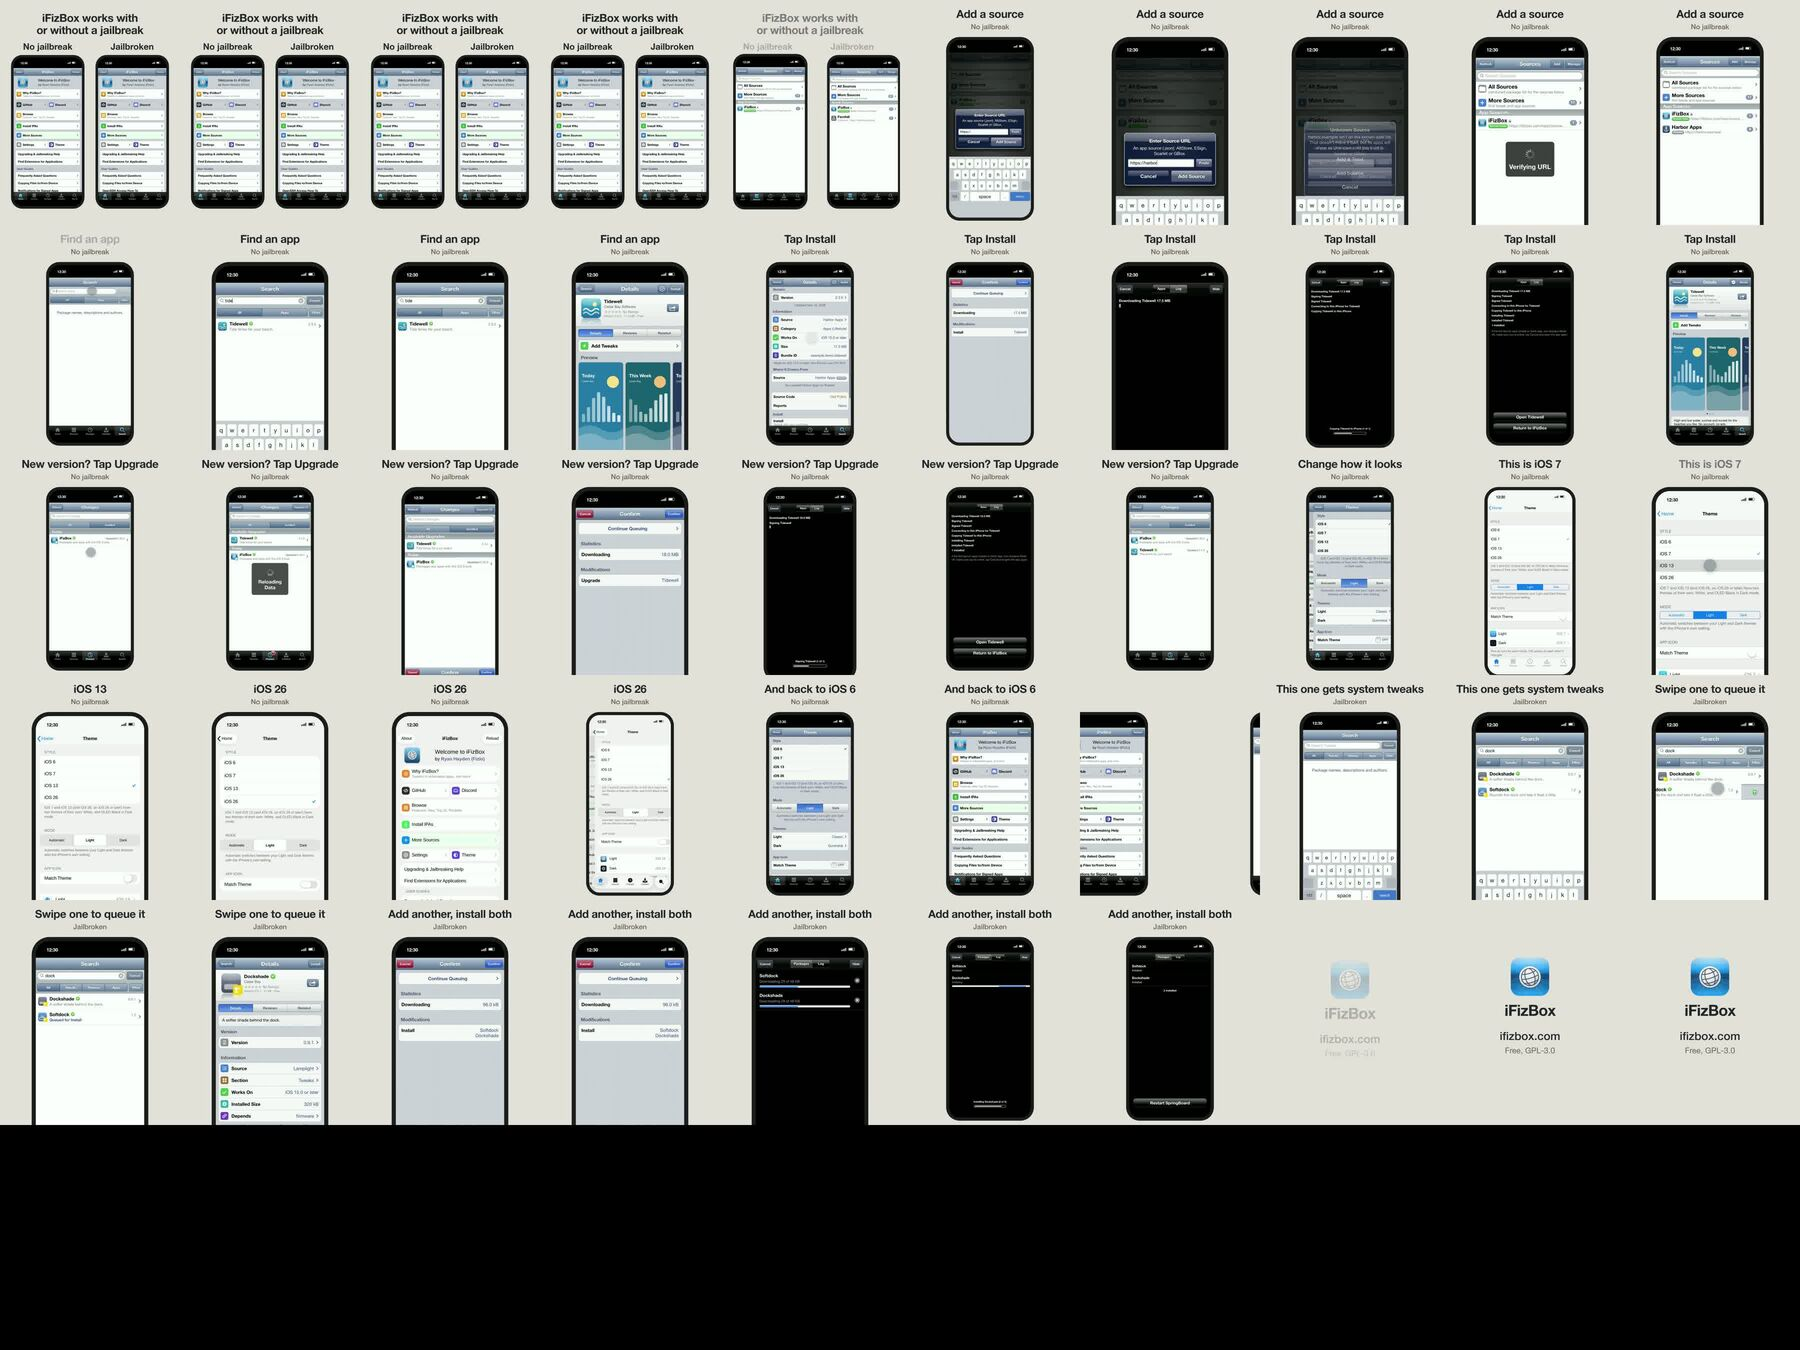
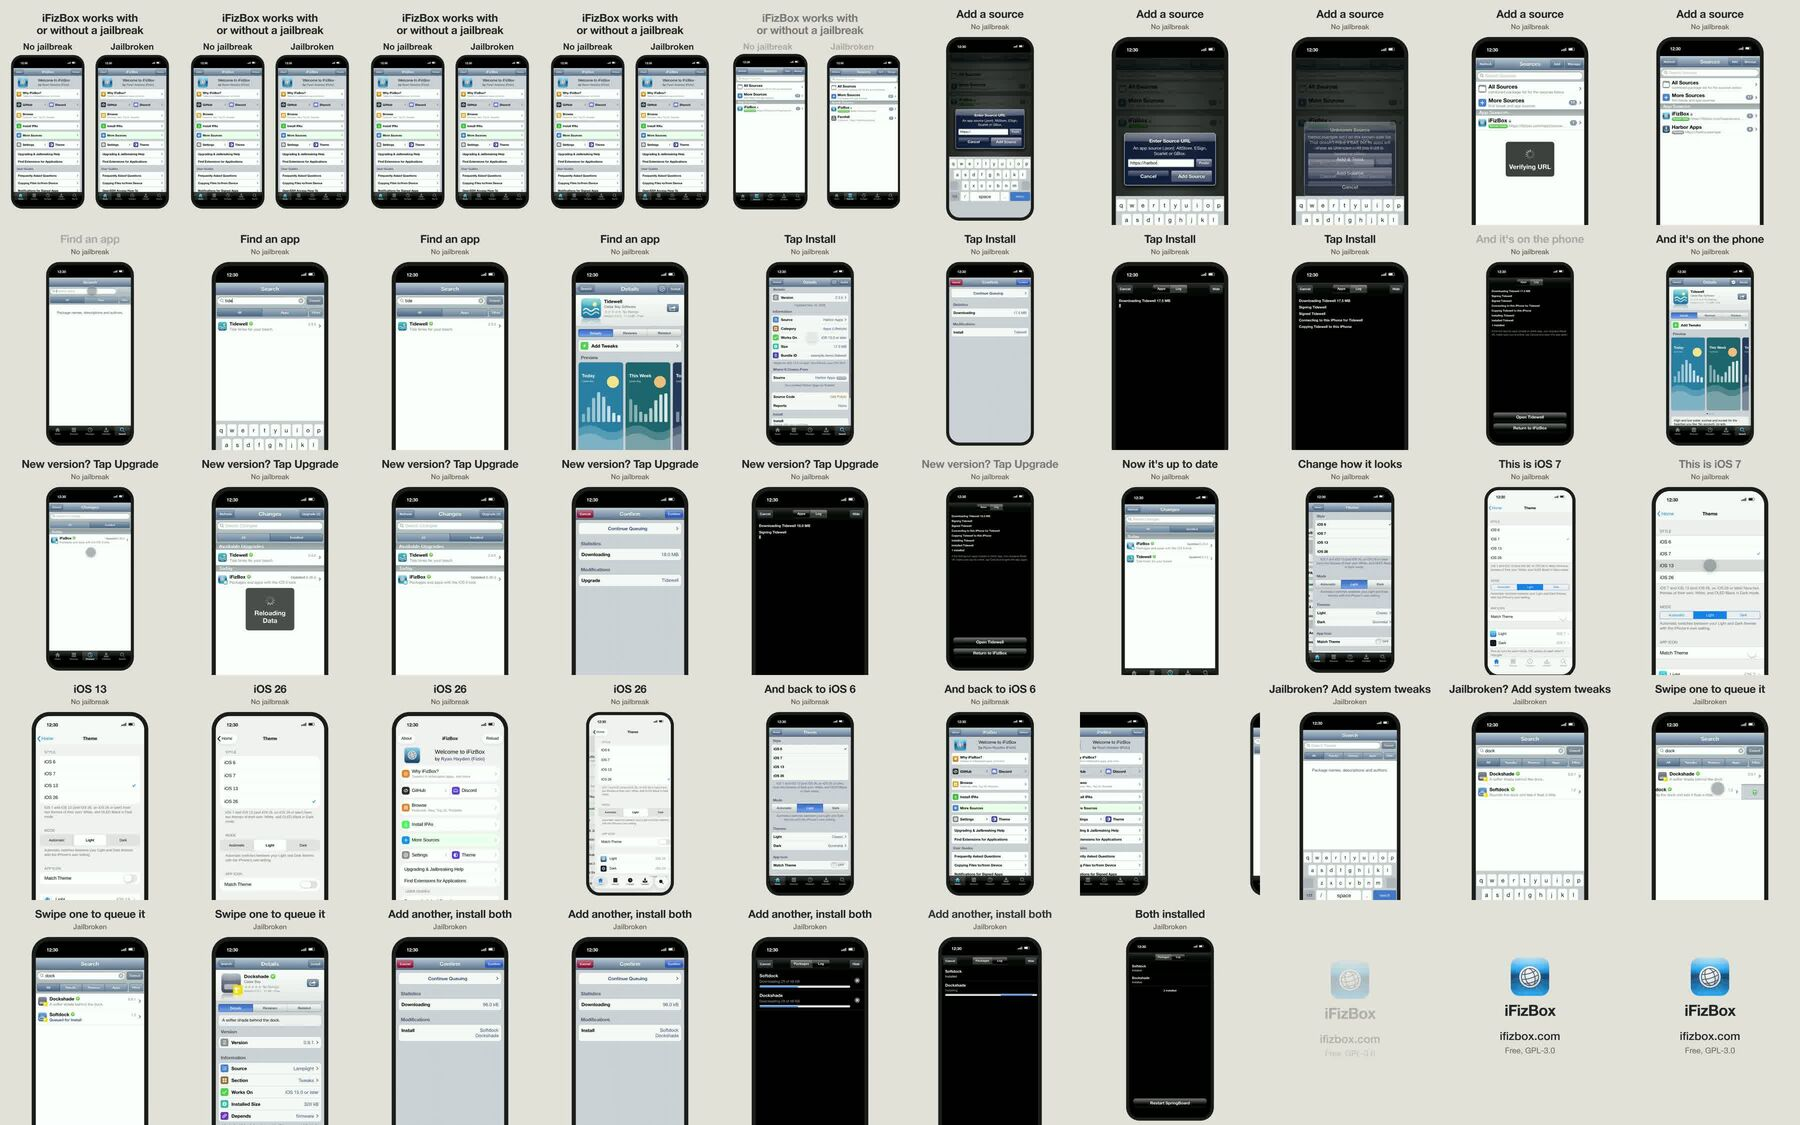
F440b Showcase video: one continuous flow of both builds, cut from the recordings (4:5 and 9:16)
review: fixed stale captions, close-ups, length, a wrong comment

diff --git a/marketing/video/video.html b/marketing/video/video.html
@@ -9,7 +9,8 @@
     window.render(t)      draws time t (a promise: the recordings' frames are decoded)
     window.ready          a promise: the marks and images are loaded
 
-  The flow is never cut: the recordings run from mark to mark, some stretches faster (MAP). The phone is a plain
+  A recording is never cut once it runs: it goes from mark to mark, some stretches faster (MAP). The jailbreak one
+  opens beside the other, then comes back from its Search on. The phone is a plain
   rounded frame drawn here (no device artwork). The name and domain come from web/app/brand.js.
 -->
 <html>
@@ -86,7 +87,7 @@ const TAKE = HOLD + 1.6;        // the no-jailbreak phone takes over
 const SWAP = lite.to + 0.35;    // the jailbroken phone comes back in its place
 const jail = plan("jailbreak", JAIL, SWAP + 0.9);
 const END = jail.to + 0.5;      // the end card
-window.DURATION = Math.ceil((END + 3.1) * 60) / 60;
+window.DURATION = Math.ceil((END + 2.8) * 60) / 60;
 
 // ---- the phones: a screen 402 points wide, scaled by place()
 const PAD = 15;
@@ -127,17 +128,20 @@ opening.style.top = (TALL ? 230 : 70) + "px";
 build(TAKE + 0.5, SWAP, "No jailbreak");
 say(TAKE + 0.5, L("search"), "Add a source");
 say(L("search"), L("app") + 0.2, "Find an app");
-say(L("app") + 0.2, L("changes") - 0.2, "Tap Install");
-say(L("changes") - 0.2, L("up-to-date") + 0.6, "New version? Tap Upgrade");
-say(L("up-to-date") + 0.6, L("ios7") - 1.1, "Change how it looks");
+say(L("app") + 0.2, L("installed") - 0.1, "Tap Install");
+say(L("installed") - 0.1, L("changes") - 0.2, "And it's on the phone");
+say(L("changes") - 0.2, L("updated") - 0.1, "New version? Tap Upgrade");
+say(L("updated") - 0.1, L("up-to-date") + 0.5, "Now it's up to date");
+say(L("up-to-date") + 0.5, L("ios7") - 1.1, "Change how it looks");
 say(L("ios7") - 1.1, L("ios13") - 1.1, "This is iOS 7");
 say(L("ios13") - 1.1, L("ios26") - 1.1, "iOS 13");
 say(L("ios26") - 1.1, L("ios6") - 0.6, "iOS 26");
 say(L("ios6") - 0.6, SWAP, "And back to iOS 6");
 build(SWAP + 0.4, END, "Jailbroken");
-say(SWAP + 0.4, J("found") + 0.5, "This one gets system tweaks");
+say(SWAP + 0.4, J("found") + 0.5, "Jailbroken? Add system tweaks");
 say(J("found") + 0.5, J("tweak") - 0.2, "Swipe one to queue it");
-say(J("tweak") - 0.2, END, "Add another, install both");
+say(J("tweak") - 0.2, J("installing") + 1.2, "Add another, install both");
+say(J("installing") + 1.2, END, "Both installed");
 
 const PAIR = TALL ? 1.1 : 1.02, pw = (402 + 2 * PAD), ph = (874 + 2 * PAD);
 const gap = (W - 2 * pw * PAIR) / 3, pairY = TALL ? 640 : 330;
@@ -149,9 +153,9 @@ end.id = "end";
 // ---- the one phone's place: whole on screen, and closer (4:5 only) while there are words to read on it
 const WHOLE = (H - BAND - 34) / ph, NEAR = TALL ? WHOLE : 1.62;
 const zooms = TALL ? [] : [ // [from, to, the point of the screen, in points from its top, kept in the middle]
-  [L("add-source") - 0.25, L("unknown-source") + 1.0, 330], [L("search") + 0.2, L("app") - 0.1, 330], [L("confirm-install") - 0.1, L("installing") + 0.3, 320],
-  [L("update-found") - 0.1, L("confirm-update") + 0.5, 330], [L("theme") + 0.2, L("ios26") + 0.4, 330],
-  [J("search") + 0.1, J("installing") + 0.2, 330],
+  [L("add-source") - 0.25, L("unknown-source") + 1.0, 330], [L("search") + 0.2, L("app") - 0.1, 330], [L("confirm-install") - 0.1, L("installing") + 1.1, 330],
+  [L("changes") + 0.1, L("confirm-update") + 1.0, 330], [L("up-to-date") - 0.4, L("up-to-date") + 0.3, 330], [L("theme") + 0.2, L("ios26") + 0.4, 330],
+  [J("search") + 0.1, J("installing") + 0.7, 330],
 ];
 function solo(t) {
   let k = 0, mid = 437;

diff --git a/marketing/video/README.md b/marketing/video/README.md
@@ -1,35 +1,63 @@
-# Showcase recordings
+# Showcase video
 
-`make.sh` records the app for the showcase video. It makes recordings only: one continuous session of each build, at
-60 fps, 804x1748 (402x874 CSS px at 2x), of the Lite build (`lite.mp4`) and the jailbreak build (`jailbreak.mp4`). Each
-recording comes with a `.json` (the marks, the page's look through time and the touches) and a `.txt` (the words on
-screen at each mark). The cut is made from these.
+`make.sh` makes the showcase video in one run: the recordings, then the cut.
 
-    marketing/video/make.sh [OUT_DIR]     # default marketing/video/out (gitignored); writes OUT_DIR/rec/
+    marketing/video/make.sh [OUT_DIR]     # default marketing/video/out (gitignored)
+
+It writes `OUT_DIR/rec/` (the recordings), then `OUT_DIR/showcase-4x5.mp4` (1080x1350) and `OUT_DIR/showcase-9x16.mp4`
+(1080x1920): 60 fps H.264, about 50 s, no sound.
 
 Needs node 22+, python3, chromium and ffmpeg. No network and no phone: the world is made up (`.example` hosts, names
 and icons invented in `make_state.py`), and the app's native bridge is answered in Node by `shell.mjs`.
 
+## The recordings
+
+One continuous session of each build, at 60 fps, 804x1748 (402x874 CSS px at 2x): the Lite build (`lite.mp4`, run with
+`--mode sideload`) and the jailbreak build (`jailbreak.mp4`, `--mode jailbreak`). Each writes `rec/<name>.mp4`, with a
+`.json` (the marks, the page's look through time and the touches) and a `.txt` (the words on screen at each mark). The
+cut is made from these.
+
+The status-bar strip (the top 62 px, the safe-area inset `capture.mjs` sets) is left empty in the recordings, for the
+cut to draw.
+
+For a quick check, `node capture.mjs <url> <outdir> <script> --state <dir> --shots` writes one PNG per mark and per
+`shot` step without recording video, and `--upto <mark>` stops after that mark. The step list (taps, typing, swipes,
+marks, world updates) is in `capture.mjs`'s header.
+
+## The cut
+
+`render.mjs` cuts the recordings with `video.html`, a page drawn on a virtual clock: each frame is `render(t)`, stepped
+1/60 s at a time and piped into ffmpeg.
+
+- `render.mjs` unpacks the recordings' frames into `OUT_DIR/frames/` (about 0.5 GB; it can be deleted, and is unpacked
+  again when a recording is newer). It serves the repo and `OUT_DIR` on 127.0.0.1, and stops at the first unpack error.
+- `video.html` draws the phones (a plain rounded frame, no device artwork, and the status bar: 12:30 and the signal and
+  battery marks), the captions, the zooms and the end card. The name and domain come from `web/app/brand.js`.
+- `MAP` in `video.html` is the timing: for the `LITE` and `JAIL` tables, each stretch between two marks and the seconds
+  the video takes to reach the next one. Some stretches are played faster than the recording. A recording is never cut
+  within a build.
+- `say()` sets a caption and `build()` the grey line under it that names the build (No jailbreak, Jailbroken).
+- The zooms close in on the one phone for the key steps. They are for 4:5 only; 9:16 shows the whole phone.
+
 | File | What it does |
 |---|---|
-| `make.sh` | the whole run: the made-up world, the app's own icons, a local server on 127.0.0.1, then both captures |
+| `make.sh` | the whole run: the made-up world, the app's own icons, a local server on 127.0.0.1, both captures, then both cuts |
 | `make_state.py` | the made-up world: AltStore and APT sources, a dpkg status, the update a script can lay over it |
 | `capture.mjs` | web/app in headless Chromium with the fake bridge, on the virtual clock; the touches come from `tools/concept/touch.js` |
 | `shell.mjs` | the fake native shell: the bridge's answers from the made-up world, with the install and sign waits on the virtual clock |
 | `clock.js` | the page's time: Date, timers and animations stand still until `capture.mjs` ticks one frame |
 | `finger.js` | what the recording shows of the person holding the phone: a soft touch dot and a plain keyboard |
 | `shots-lite.json`, `shots-jailbreak.json` | each recording's script: the steps, in the order `capture.mjs`'s header lists them |
+| `render.mjs` | the cut's renderer: unpacks the frames, serves the page, steps its clock and pipes the frames to ffmpeg (H.264, 60 fps, no audio) |
+| `video.html` | the cut as one page: the phones, the status bar, the captions (`say()`, `build()`), the timing (`MAP`), the zooms and the end card |
 
-The Lite recording runs `--mode sideload`, the jailbreak one `--mode jailbreak`. Each writes `rec/<name>.mp4`,
-`rec/<name>.json` and `rec/<name>.txt`.
+Re-render one cut from the recordings already in `OUT_DIR`:
 
-For a quick check, `node capture.mjs <url> <outdir> <script> --state <dir> --shots` writes one PNG per mark and per
-`shot` step without recording video, and `--upto <mark>` stops after that mark.
+    node marketing/video/render.mjs marketing/video/out showcase-4x5.mp4 --h 1350
+    node marketing/video/render.mjs marketing/video/out showcase-9x16.mp4 --h 1920
 
-The step list (taps, typing, swipes, marks, world updates) is in `capture.mjs`'s header.
+Draw stills at some seconds instead of a video (no re-recording; the output name is not used):
 
-`video.html` and `render.mjs` are the previous video's page and renderer. `make.sh` doesn't run them, and they can't find
-the shots of these recordings. The new cut replaces them.
+    node marketing/video/render.mjs marketing/video/out --h 1350 --still 3,10 --stills <dir>
 
-The status-bar strip (the top 62 px, the safe-area inset `capture.mjs` sets) is left empty in the recordings, for the
-cut to draw.
+Don't edit `make.sh` while it runs: `sh` reads a script as it goes.

diff --git a/plan/TODO.md b/plan/TODO.md
@@ -21,7 +21,7 @@ parsed). Finish with `agent-runner done <ID> "msg"`.
 
 ### Follow-ups
 
-- [ ] **F440b** (follow-up, normal) Cut the new showcase video from the recordings of F440a (user 2026-11-25: 'make it one continues flow ... make it more clear at the start about jailbreak and non-jailbreak. maybe show both ... show the eras on customize part too. make it more human and less ai sounding'). Opening, first ~5 s: two plain phones side by side, one labelled 'No jailbreak', one 'Jailbroken', same app on both, one plain sentence that it works on either (not a versus, no feature checklists); then the no-jailbreak phone takes over for the one continuous flow: add a source, search, install, update, Customize and its eras; a short jailbreak part near the end; end card with the domain and 'Free, GPL-3.0'. About 40-50 s, let it follow the flow. Few captions, each what a person would say while showing a friend ('Add a source', 'Find an app', 'New version? Tap Update'): no slogans, triples, 'X, not Y' lines, pills, rings or feature-list cards. Plain phone frame, no Apple artwork. Claims must be true of the current build; leave push out. Render 1080x1350 and 1080x1920, 60 fps H.264, one command (marketing/video/make.sh); MP4s in the journal if under 20 MB each. Update the README there. Check: stills at each step, text readable at 360 px wide, no typos. Don't post it anywhere. When it is rendered and checked, block with CONFIRM: 'Watch the new showcase video', with the two MP4s reachable from the ask (a private page with the videos playable), so it shows under Needs you before it counts as done. | files: marketing/video/video.html, marketing/video/render.mjs, marketing/video/make.sh, marketing/video/README.md | after: F440a
+- [~] **F440b** (follow-up, normal) Cut the new showcase video from the recordings of F440a (user 2026-11-25: 'make it one continues flow ... make it more clear at the start about jailbreak and non-jailbreak. maybe show both ... show the eras on customize part too. make it more human and less ai sounding'). Opening, first ~5 s: two plain phones side by side, one labelled 'No jailbreak', one 'Jailbroken', same app on both, one plain sentence that it works on either (not a versus, no feature checklists); then the no-jailbreak phone takes over for the one continuous flow: add a source, search, install, update, Customize and its eras; a short jailbreak part near the end; end card with the domain and 'Free, GPL-3.0'. About 40-50 s, let it follow the flow. Few captions, each what a person would say while showing a friend ('Add a source', 'Find an app', 'New version? Tap Update'): no slogans, triples, 'X, not Y' lines, pills, rings or feature-list cards. Plain phone frame, no Apple artwork. Claims must be true of the current build; leave push out. Render 1080x1350 and 1080x1920, 60 fps H.264, one command (marketing/video/make.sh); MP4s in the journal if under 20 MB each. Update the README there. Check: stills at each step, text readable at 360 px wide, no typos. Don't post it anywhere. When it is rendered and checked, block with CONFIRM: 'Watch the new showcase video', with the two MP4s reachable from the ask (a private page with the videos playable), so it shows under Needs you before it counts as done. | files: marketing/video/video.html, marketing/video/render.mjs, marketing/video/make.sh, marketing/video/README.md | after: F440a BLOCKED: CONFIRM: Watch the new showcase video: this task's page on the run page (/concept/F440b) plays both sizes. (asked 2026-11-25 15:31)
 - [ ] **F440** (follow-up, normal) New showcase video for X and other feeds, replacing F290's (split into parts) | files: marketing/video/video.html
 ### Parked
 

diff --git a/journal/2026-11-25-f440b-cut-the-video/README.md b/journal/2026-11-25-f440b-cut-the-video/README.md
@@ -1,0 +1,45 @@
+# F440b: cut the showcase video
+
+## Result
+- `showcase-4x5.mp4` (8.9 MB, 1080x1350) and `showcase-9x16.mp4` (7.5 MB, 1080x1920) in `ref/f440b/` (gitignored), both
+  2985 frames, 49.75 s, ffprobe h264 at 60/1. Not in the journal: the size guard refuses new files over 1 MB.
+- `stills/360-wide.jpg`: the 4:5 cut at 360 px wide, every 3 s.
+- `stills/4x5.jpg` and `stills/9x16.jpg`: contact sheets, one frame per second, to check by eye.
+
+## Flow
+- Opening: two phones on Home, labelled No jailbreak and Jailbroken, under "iFizBox works with or without a jailbreak".
+  Both fingers tap Sources; the no-jailbreak phone takes over.
+- No-jailbreak captions: Add a source / Find an app / Tap Install / And it's on the phone / New version? Tap Upgrade /
+  Now it's up to date / Change how it looks /
+  This is iOS 7 / iOS 13 / iOS 26 / And back to iOS 6.
+- Jailbroken captions: Jailbroken? Add system tweaks / Swipe one to queue it / Add another, install both /
+  Both installed.
+- End card: the name, ifizbox.com, Free, GPL-3.0.
+
+## Decisions
+- "Tap Upgrade", not "Tap Update": the button says Upgrade.
+- "system tweaks", because the Lite build also adds tweaks to apps, so "tweaks" alone would not tell the builds apart.
+- Customize is Theme in the app, as in F440a.
+- Recordings are never cut within a build; some stretches are played faster (`MAP` in `video.html`).
+- The jailbreak part starts on Search, since its Sources steps repeat the Lite ones.
+
+- The build's name stays under the captions, so a viewer who joins late knows which phone it is; the status bar is drawn
+  because the recordings leave it empty.
+- Review page: the run page's /concept/F440b, both videos inside, packed to 3.6 and 3.3 MB. claude.ai refused a copy (too
+  big for its one-shot).
+
+## Failed
+- Editing `make.sh` during its run made `sh` run the jailbreak capture twice. Harmless.
+- Rendering before the mp4 was finished gave a truncated unpack. ffmpeg now runs with `-xerror` and `render.mjs` stops
+  at the first error, so a short unpack can't pass for a whole one.
+
+## Checked
+- Stills through both cuts.
+- Captions and labels read at 360 px wide.
+
+## Not verified
+- The words inside the phone's own screen are not all readable at 360 px. The 4:5 zooms cover the key steps.
+- How it plays on X or other sites: nothing posted.
+- Whether a person likes it: asked by CONFIRM.
+- Real-phone timing and fonts, as in F440a: Chromium's look-alike iOS 13 and 26 styles.
+- Smoothness was judged from the stills and frame counts, not by watching the video in real time.
